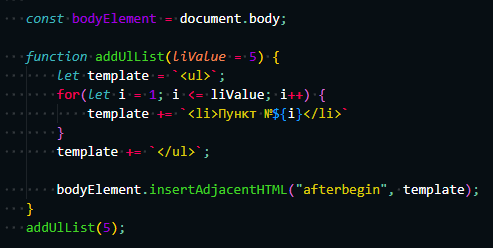
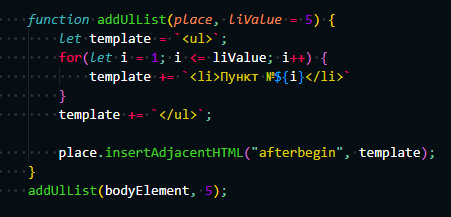
Add files via upload

diff --git a/lesson_23/js/script.js b/lesson_23/js/script.js
@@ -11,16 +11,16 @@
     
     //const bodyElement = document.body;
 
-    function addUlList(liValue = 5) {
+    function addUlList(place, liValue = 5) {
         let template = `<ul>`;
         for(let i = 1; i <= liValue; i++) {
             template += `<li>Пункт №${i}</li>`
         }
         template += `</ul>`;
 
-        bodyElement.insertAdjacentHTML("afterbegin", template);
+        place.insertAdjacentHTML("afterbegin", template);
     }
-    addUlList(5);
+    addUlList(bodyElement, 5);
 
     /*     Задача №3
     Додати до елементу <body> класс loaded.
